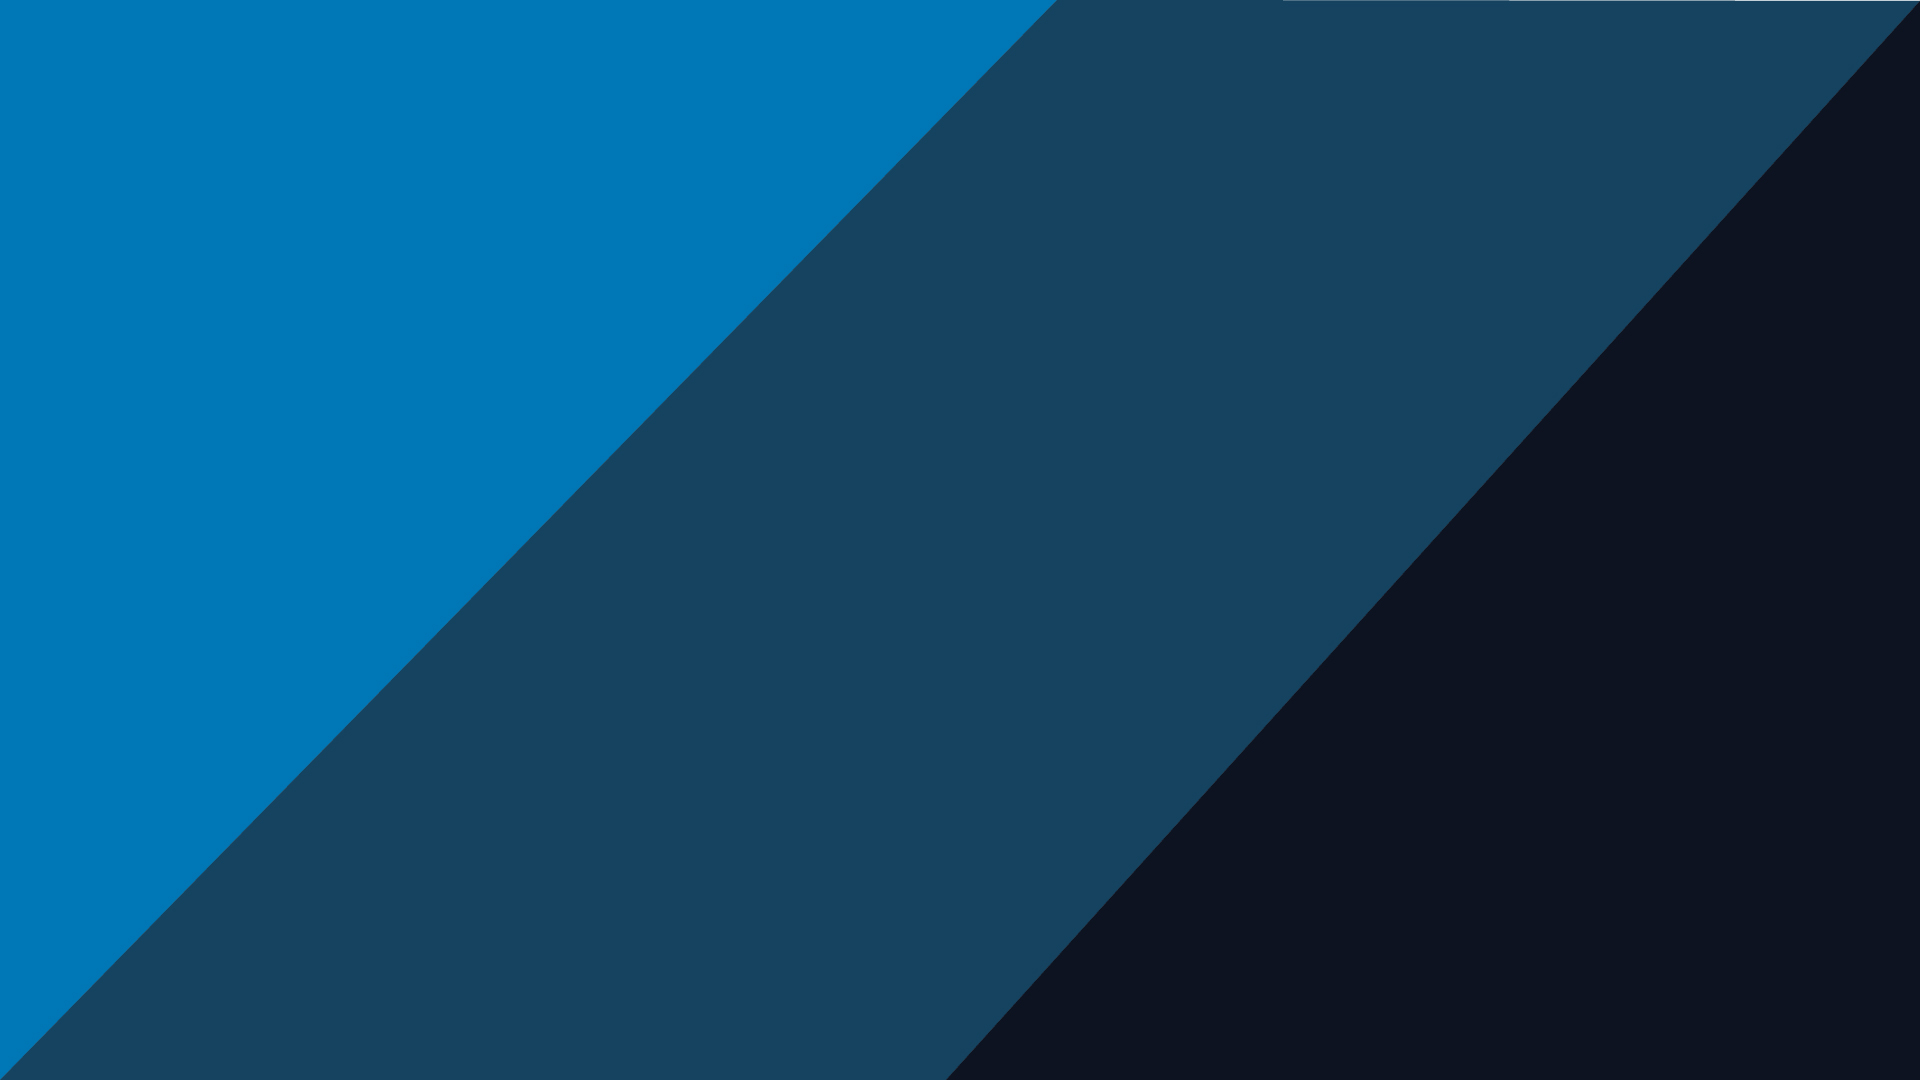
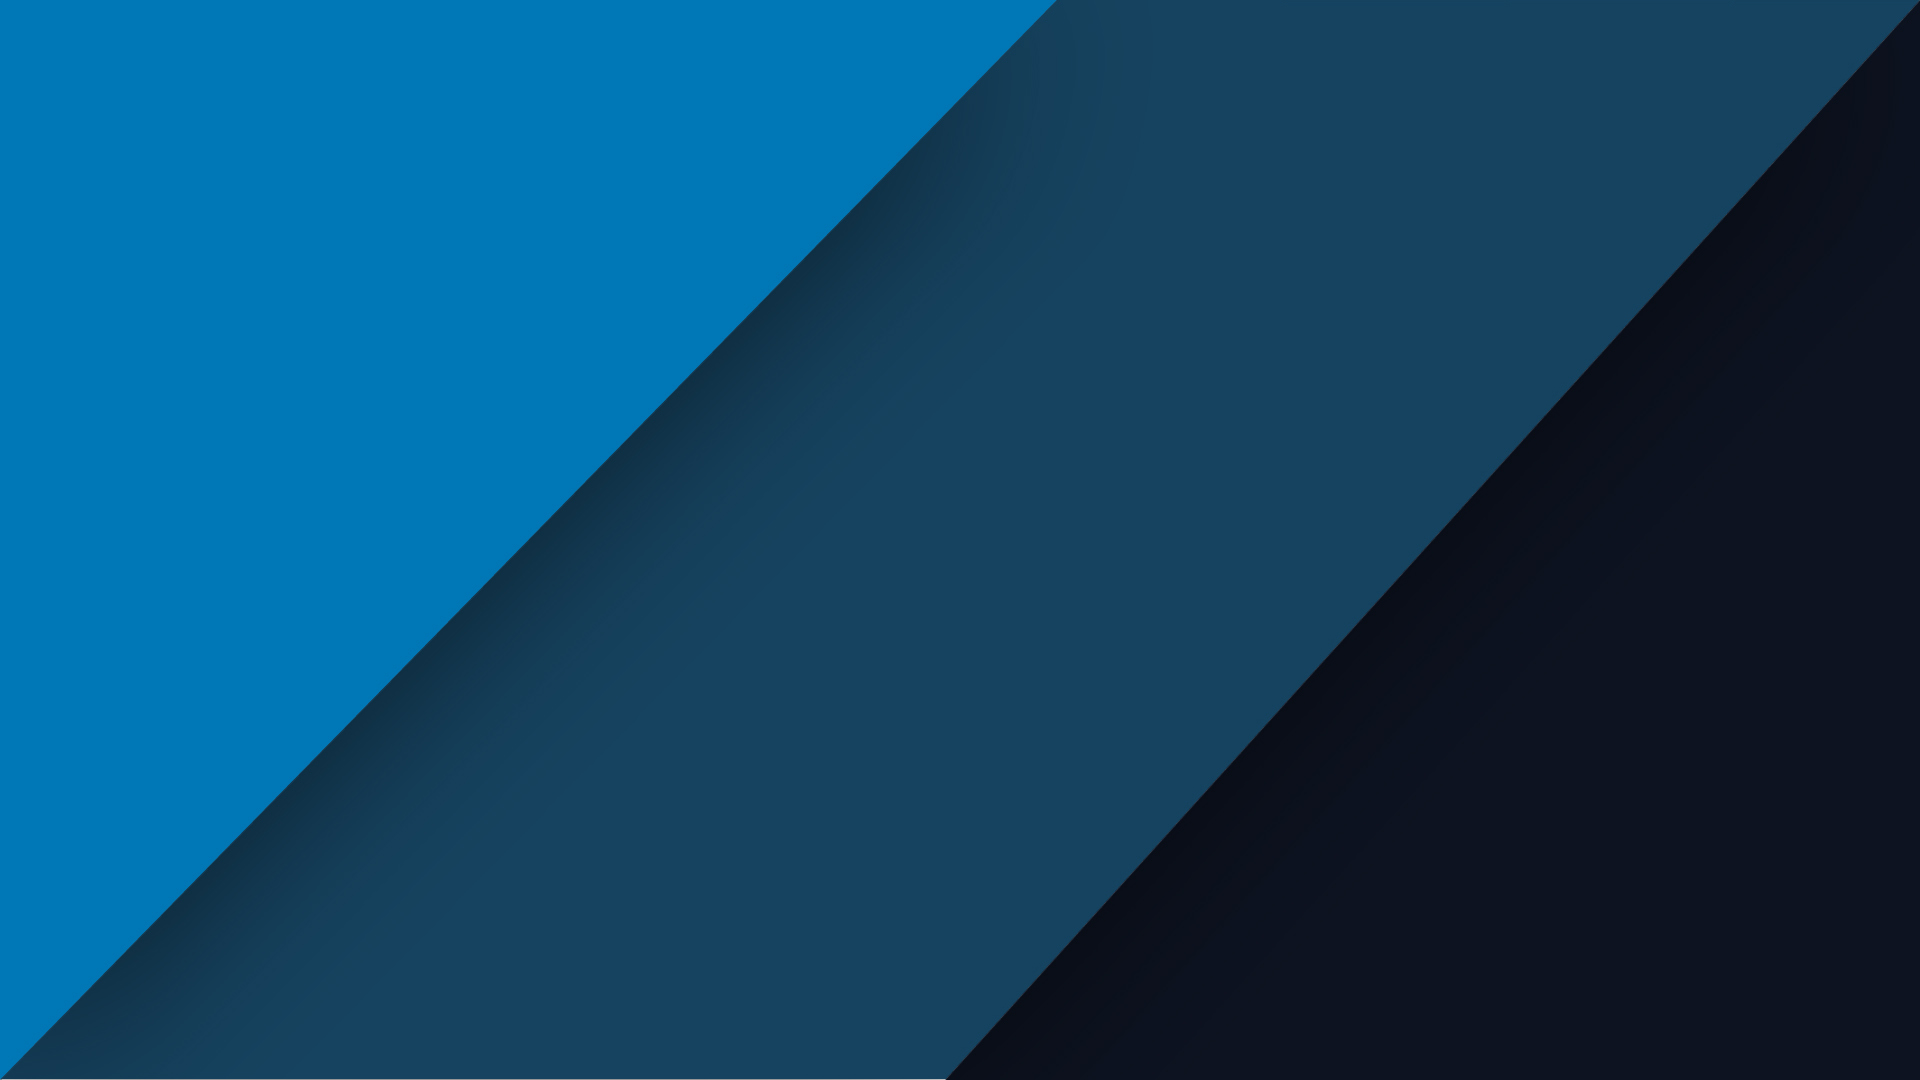
shadows

diff --git a/css/LPcssNewColor.css b/css/LPcssNewColor.css
@@ -68,7 +68,7 @@ div.burger{
   min-height: 8vh;
   width: 100%;
   /* background-image: linear-gradient(#154360, #154360, #1d3557); */
-  background-image: url("../images/navBG.jpg");
+  background-image: url("../images/navBG shadow copy.jpg");
   background-position: center;
   background-repeat: no-repeat;
   background-size: cover;
@@ -181,7 +181,7 @@ div.burger{
   width: 100%;
   font-family: 'Cabin', sans-serif;
   padding-top: 15px;
-  background-image: url("../images/teambg.jpg");
+  background-image: url("../images/teambg shadow.jpg");
   background-position: center;
   background-repeat: no-repeat;
   background-size: cover;
@@ -249,6 +249,8 @@ div.burger{
 }
 .overviews > li a:hover {
   color: #154360;
+  text-decoration: underline;
+  text-decoration-color: #00A896;
 }
 .catalog_container{
   /* border: 3px solid deeppink; */
@@ -383,7 +385,7 @@ div.biotext {
   margin-bottom: 50px;
   align-items: center;
   flex-direction: column;
-  background-image: url("../images/backG.jpg");
+  background-image: url("../images/backG shadow.jpg");
   background-position: center;
   background-repeat: no-repeat;
   background-size: cover;
@@ -679,8 +681,8 @@ div.about_title_wrapper{
   display: flex;
   justify-content: center;
   background-color: #0077b6;
-  /* padding:; */
   border-top: 2px solid ghostwhite;
+  /* background-image: linear-gradient(to top right, #00507A, #0077B6, #0077B6); */
 }
 
 h1.statement{
@@ -717,7 +719,7 @@ h2.statement2{
   width: 100%;
   height: 100%;
   background-color: #154360;
-  background-image: url("../images/bottombg.jpg");
+  background-image: url("../images/bottombg copy.jpg");
   background-position: center;
   background-repeat: no-repeat;
   background-size: cover;
@@ -741,18 +743,20 @@ h2.statement2{
 
 .headerbg {
   width: 100%;
-  background-color: #154360;
-  height: 50px;
+  background-color: white;
+  height: 65px;
   margin-bottom: auto;
   display: flex;
   justify-content: center;
   align-items: center;
   border-top-left-radius: 10px;
   border-top-right-radius: 10px;
+  /* border-bottom: 2px solid #154360; */
+  /* border-bottom-style: solid; */
 }
 .enroll_now{
   width: 550px;
-  height: 220px;
+  height: 230px;
   background-color: white;
   /* border: 5px solid #E7E9EE; */
   border-radius: 10px;
@@ -772,16 +776,16 @@ h2.statement2{
 }
 .enroll_now h2 {
   font-size: 25px;
-  color: #F5F6F8;
+  color: #154360;
   font-weight: normal;
-  margin-top: 15px;
-  margin-bottom: 10px;
+  /* margin-top: 15px; */
+  /* margin-bottom: 10px; */
 }
 .enroll_now p {
   font-size: 17px;
   width: 80%;
   padding: 10px;
-  color: #F5F6F8;
+  color: white;
 }
 .enroll_now button {
   font-size: 17px;
@@ -793,7 +797,10 @@ h2.statement2{
   padding-top: 12px;
   padding-bottom: 12px;
   border-radius: 8px;
-  margin: 10px;
+  /* margin: 20px; */
+  margin-top: 10px;
+  margin-bottom: 20px;
+  /* margin-bottom: 10px; */
   border: none;
   /* box-shadow: 0 4px 8px 0 rgba(0, 0, 0, 0.2), 0 6px 20px 0 rgba(0, 0, 0, 0.19); */
   transition-duration: 0.3s;
@@ -801,7 +808,7 @@ h2.statement2{
 }
 .contact_us{
   width: 550px;
-  height: 220px;
+  height: 230px;
   background-color: white;
   /* border: 5px solid #E7E9EE; */
   border-radius: 10px;
@@ -821,17 +828,17 @@ h2.statement2{
   }
   .contact_us h2 {
   font-size: 25px;
-  color: #F5F6F8;
+  color: #154360;
   font-weight: normal;
-  margin-top: 15px;
-  margin-bottom: 10px;
+  /* margin-top: 15px; */
+  /* margin-bottom: 10px; */
   }
   .contact_us p {
   font-size: 17px;
   width: 80%;
   /* margin-top: 5px; */
   padding: 10px;
-  color: #F5F6F8;
+  color: white;
   }
   .contact_us button {
     font-size: 17px;
@@ -843,7 +850,10 @@ h2.statement2{
     padding-top: 12px;
     padding-bottom: 12px;
     border-radius: 8px;
-    margin: 10px;
+    /* margin: 20px; */
+    margin-top: 10px;
+    margin-bottom: 20px;
+    /* margin-bottom: 10px; */
     border: none;
     /* box-shadow: 0 4px 8px 0 rgba(0, 0, 0, 0.2), 0 6px 20px 0 rgba(0, 0, 0, 0.19); */
     transition-duration: 0.3s;
@@ -852,10 +862,12 @@ h2.statement2{
 .contact_us button:hover{
   background-color: #F5F6F8;
   cursor: pointer;
+  text-decoration: underline;
 }
 .enroll_now button:hover{
   background-color: #F5F6F8;
   cursor: pointer;
+  text-decoration: underline;
 }
 .cta_dash{
   width: 40%;

diff --git a/Index.html b/Index.html
@@ -378,23 +378,23 @@
   <section class="flex_container4">
     <div class="top_bottom_section">
       <div class="enroll_now">
-        <!-- <div class="headerbg"> -->
+        <div class="headerbg">
         <h2>Enroll for free to view Dashboard</h2>
-        <!-- </div> -->
-        <!-- <img class="enrollpic" src="images/enrollpic.png" alt=""> -->
-        <div class="cta_dash">
-
         </div>
+        <!-- <img class="enrollpic" src="images/enrollpic.png" alt=""> -->
+        <!-- <div class="cta_dash">
+
+        </div> -->
         <p>Enroll now to gain access to InHouse Learning's free and advantagious lesson plans that comes with a fully editable dashboard.</p>
         <button type="button" name="button">Enroll Now</button>
       </div>
       <div class="contact_us">
-        <!-- <div class="headerbg"> -->
+        <div class="headerbg">
         <h2>Contact us for Information</h2>
-      <!-- </div> -->
-        <div class="cta_dash">
+      </div>
+        <!-- <div class="cta_dash">
 
-        </div>
+        </div> -->
         <p>Speak to one of our team members via email for more information on enrollment, lessons plans, and other details.</p>
         <button type="button" name="button">Contact Us</button>
       </div>
